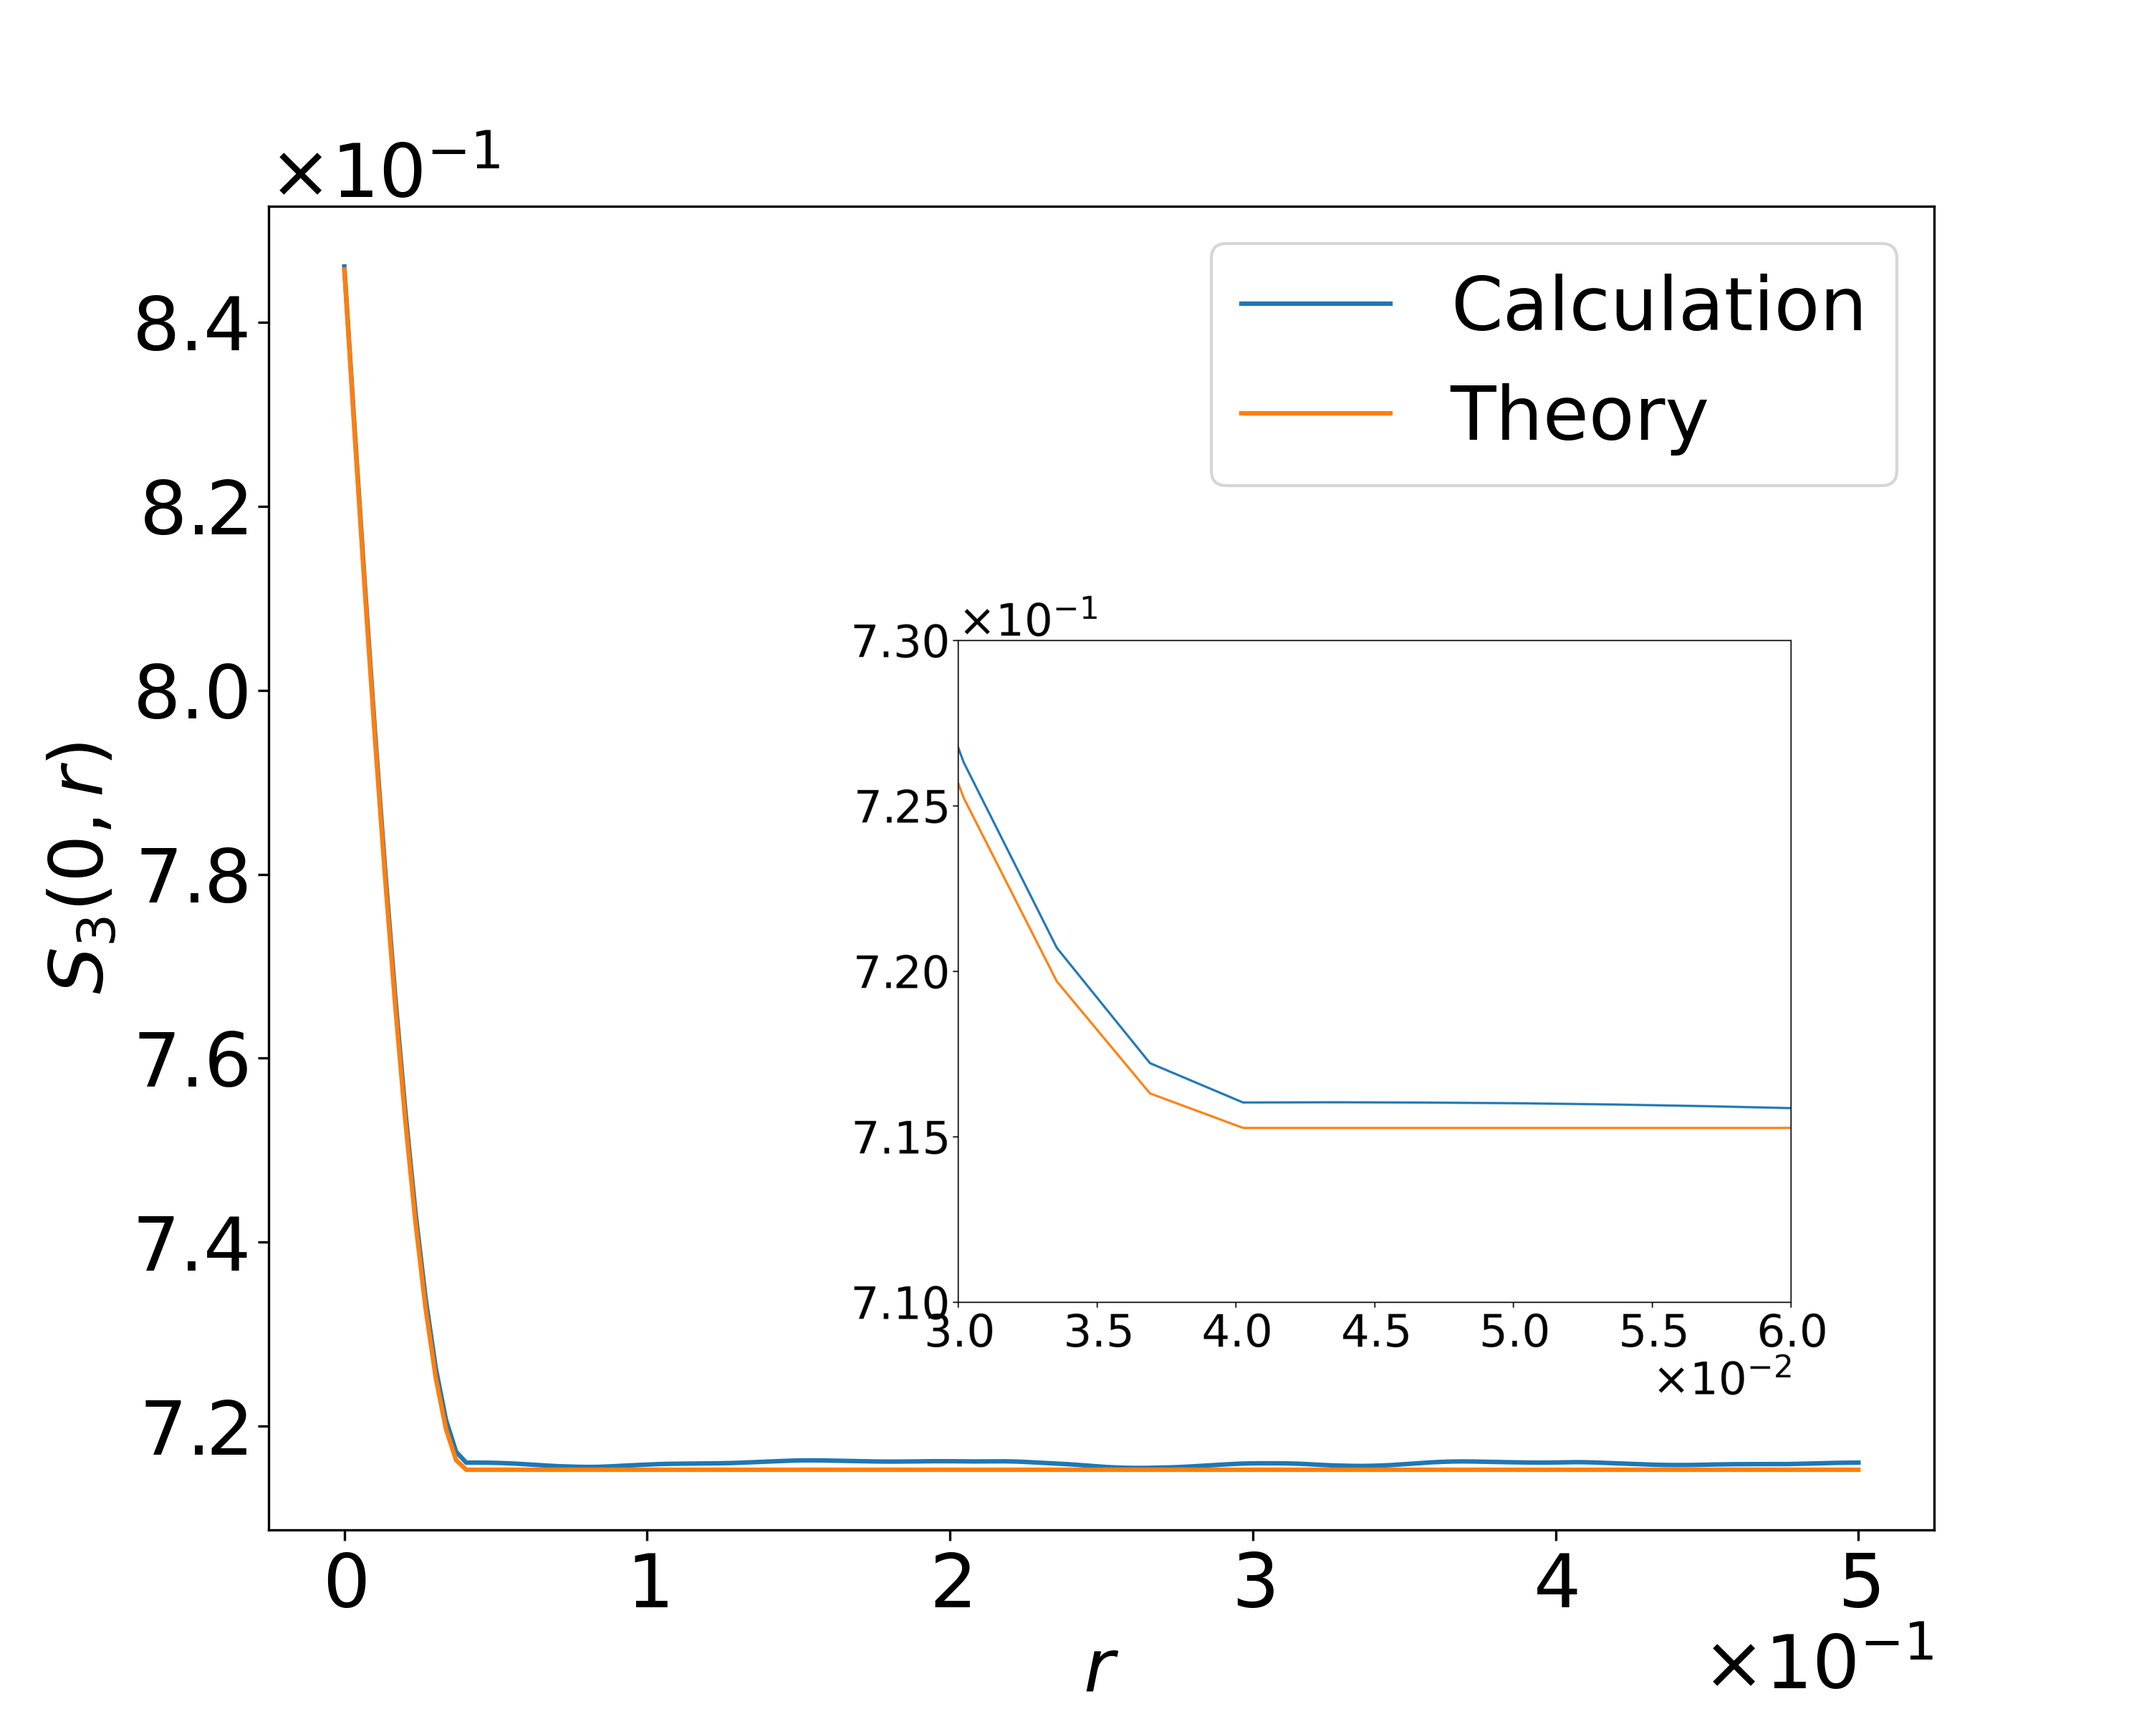
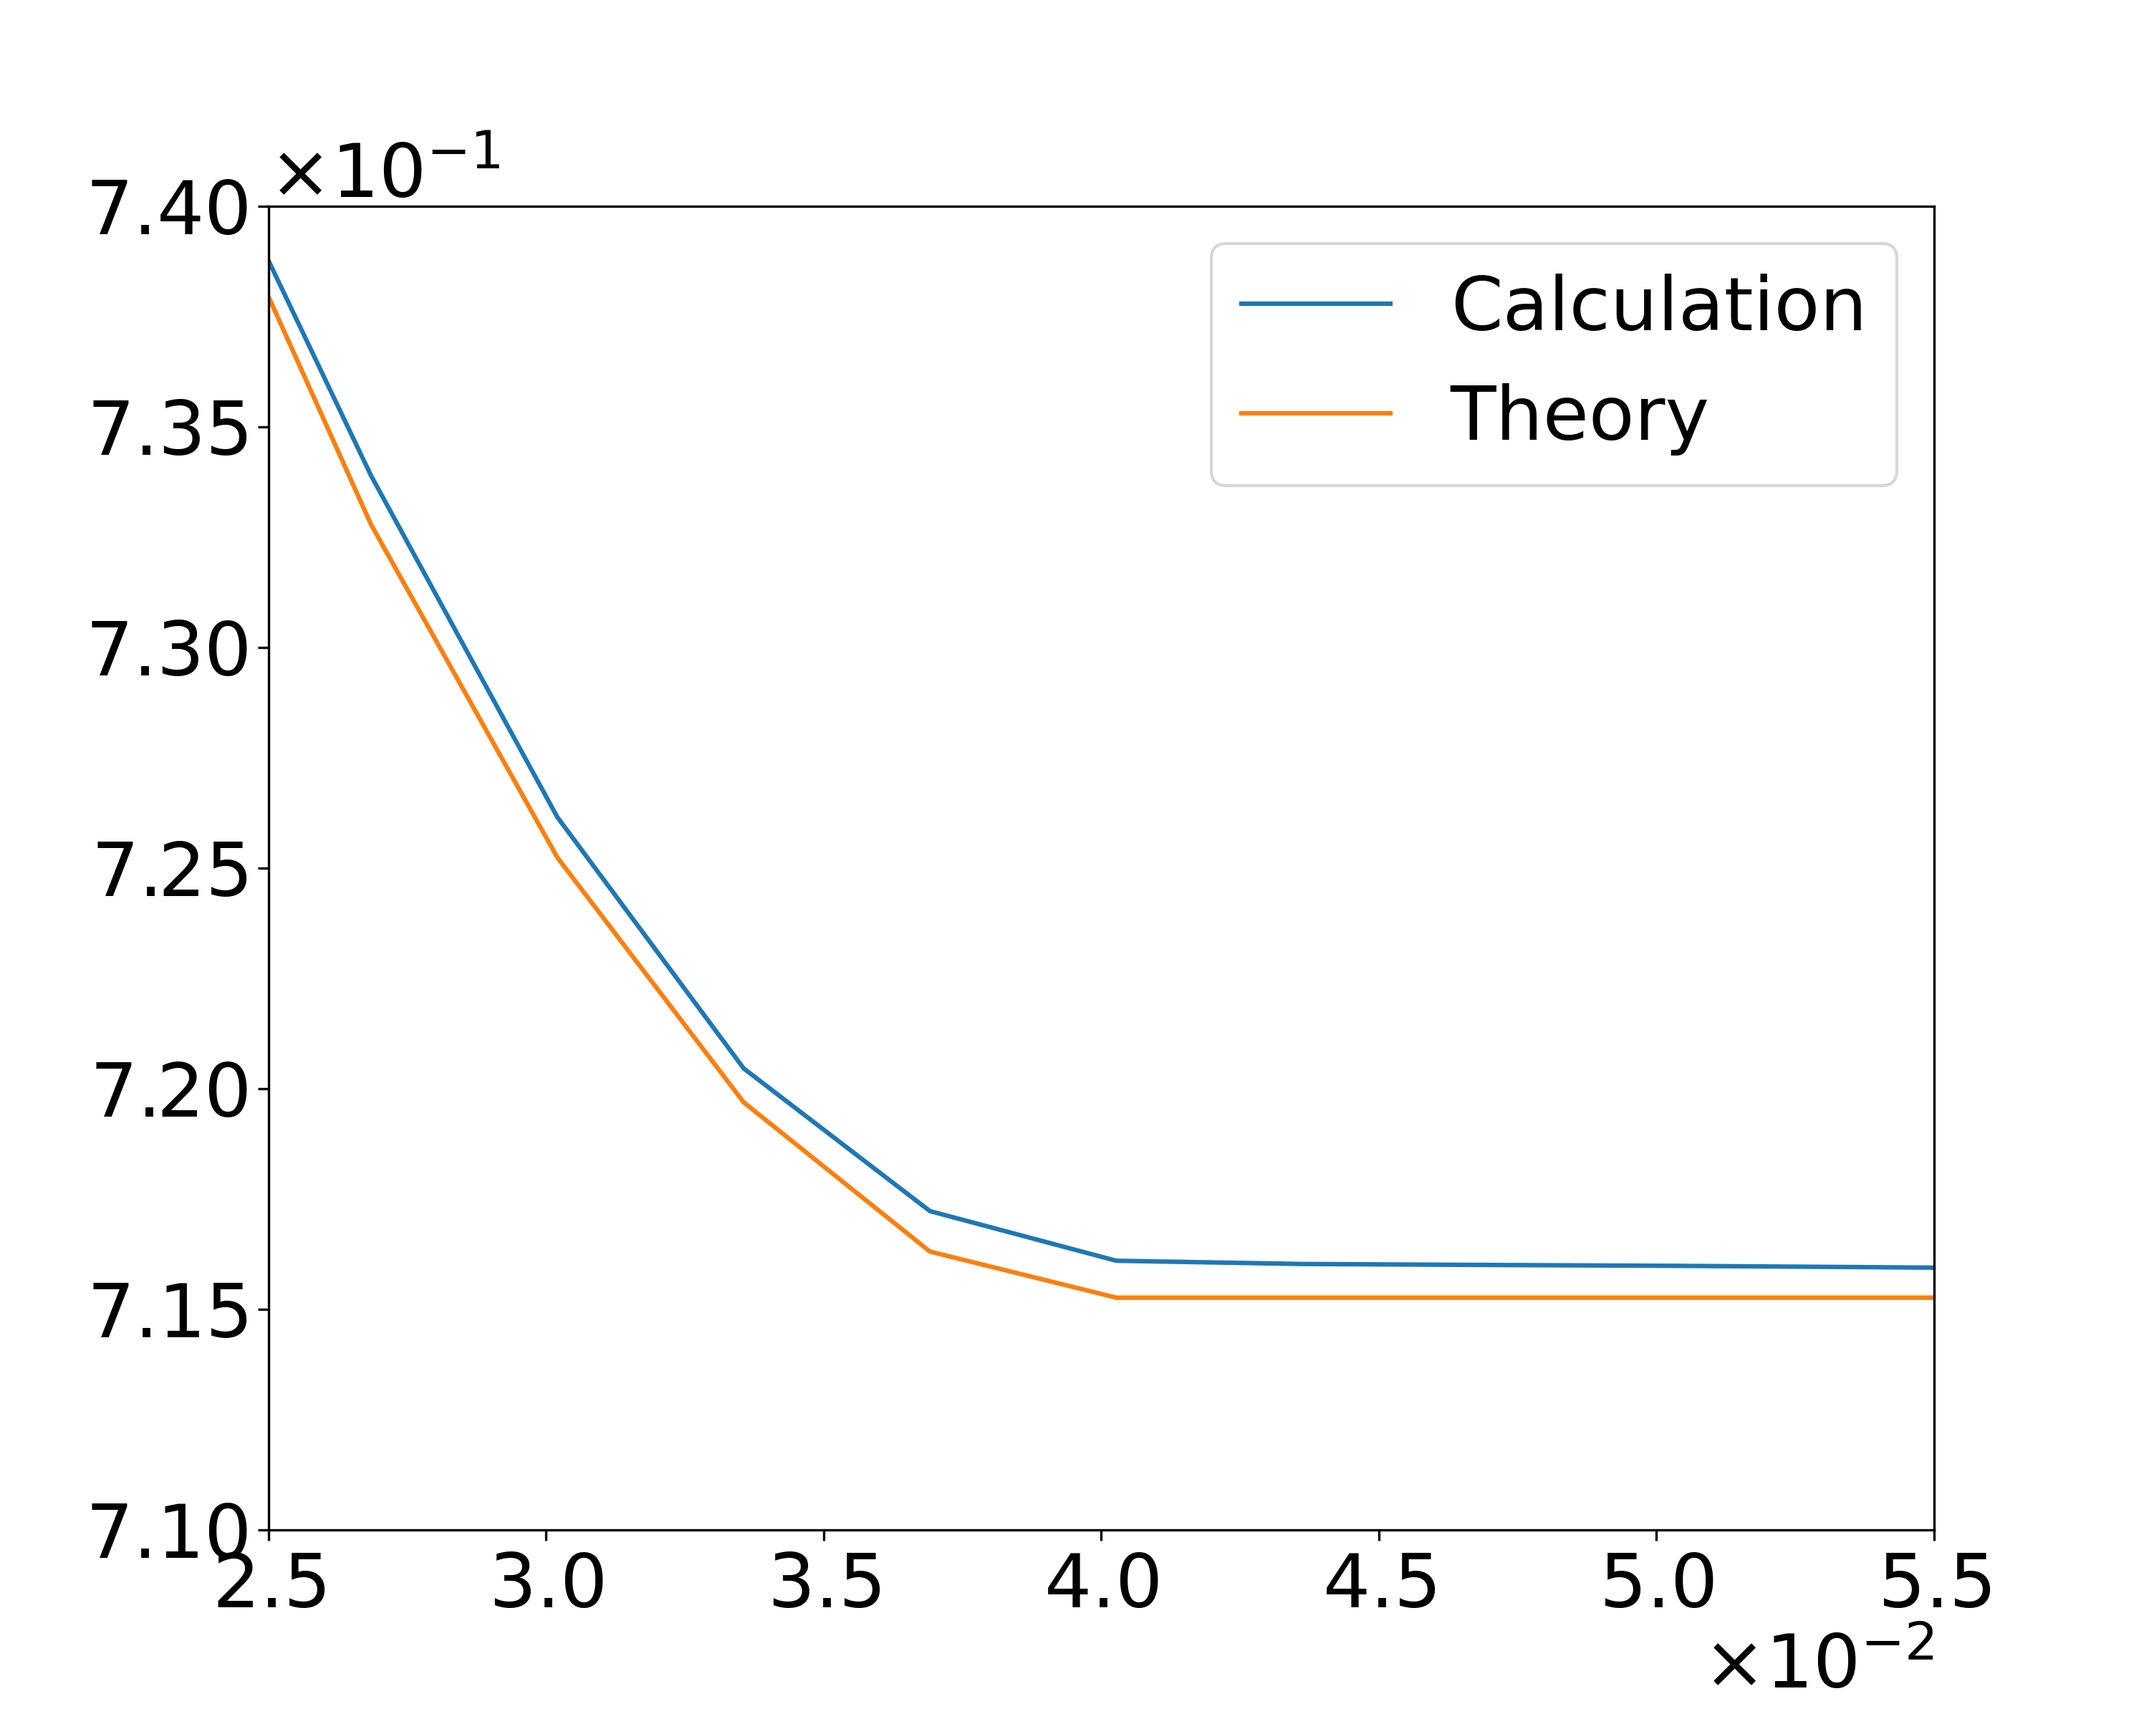
Make another plot of S₃ for balls

diff --git a/data/plot-s2.py b/data/plot-s2.py
@@ -10,23 +10,34 @@ def s2_th(x, λ, R):
 s2 = np.load('test-s2.npy')
 xs = np.linspace(0, 0.5, s2.size)
 
+#plt.figure(figsize = (10, 8), dpi = 300)
+#plt.rc('font', size = 25)
+#plt.plot(xs, s2)
+#plt.plot(xs, s2_th(xs, 5000, 0.02))
+#plt.xlabel(r'$r$')
+#plt.ylabel(r'$S_3(0, r)$')
+#plt.ticklabel_format(axis = "y", scilimits = (0, 0), useMathText = True)
+#plt.ticklabel_format(axis = "x", scilimits = (0, 0), useMathText = True)
+#plt.legend(['Calculation', 'Theory'])
+#plt.savefig('../images/balls-s3.png')
+
+#plt.figure(figsize = (10, 8), dpi = 300)
+#plt.rc('font', size = 30)
+#plt.plot(xs, s2)
+#plt.plot(xs, s2_th(xs, 5000, 0.02))
+#plt.ticklabel_format(axis = "y", scilimits = (0, 0), useMathText = True)
+#plt.ticklabel_format(axis = "x", scilimits = (0, 0), useMathText = True)
+#plt.xlim([0.03, 0.06])
+#plt.ylim([0.71, 0.73])
+#plt.savefig('../images/balls-s3-zoom.png')
+
 plt.figure(figsize = (10, 8), dpi = 300)
 plt.rc('font', size = 25)
 plt.plot(xs, s2)
 plt.plot(xs, s2_th(xs, 5000, 0.02))
-plt.xlabel(r'$r$')
-plt.ylabel(r'$S_3(0, r)$')
 plt.ticklabel_format(axis = "y", scilimits = (0, 0), useMathText = True)
 plt.ticklabel_format(axis = "x", scilimits = (0, 0), useMathText = True)
+plt.xlim([0.025, 0.055])
+plt.ylim([0.71, 0.74])
 plt.legend(['Calculation', 'Theory'])
 plt.savefig('../images/balls-s3.png')
-
-plt.figure(figsize = (10, 8), dpi = 300)
-plt.rc('font', size = 30)
-plt.plot(xs, s2)
-plt.plot(xs, s2_th(xs, 5000, 0.02))
-plt.ticklabel_format(axis = "y", scilimits = (0, 0), useMathText = True)
-plt.ticklabel_format(axis = "x", scilimits = (0, 0), useMathText = True)
-plt.xlim([0.03, 0.06])
-plt.ylim([0.71, 0.73])
-plt.savefig('../images/balls-s3-zoom.png')
